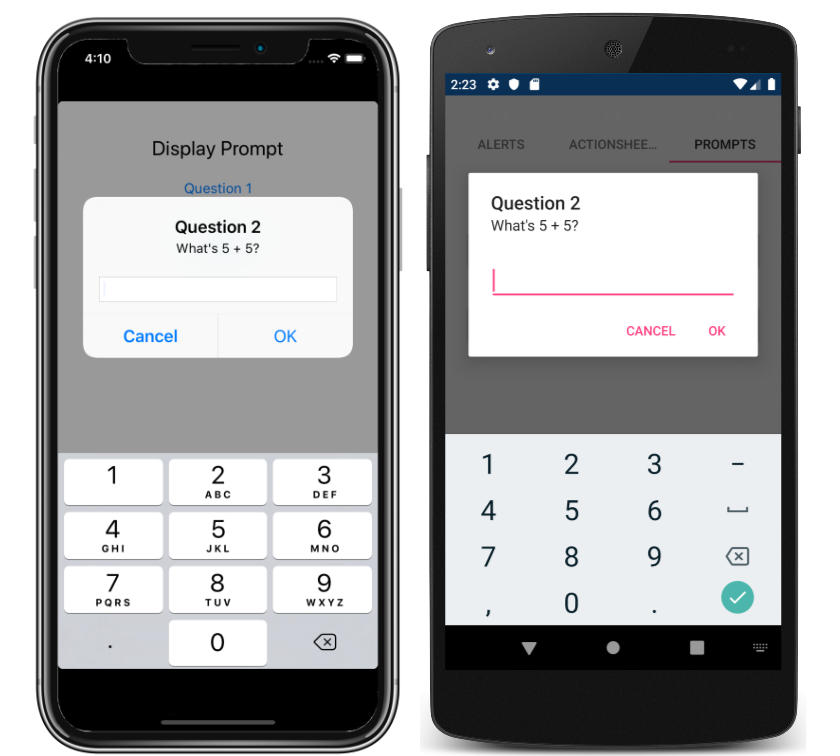
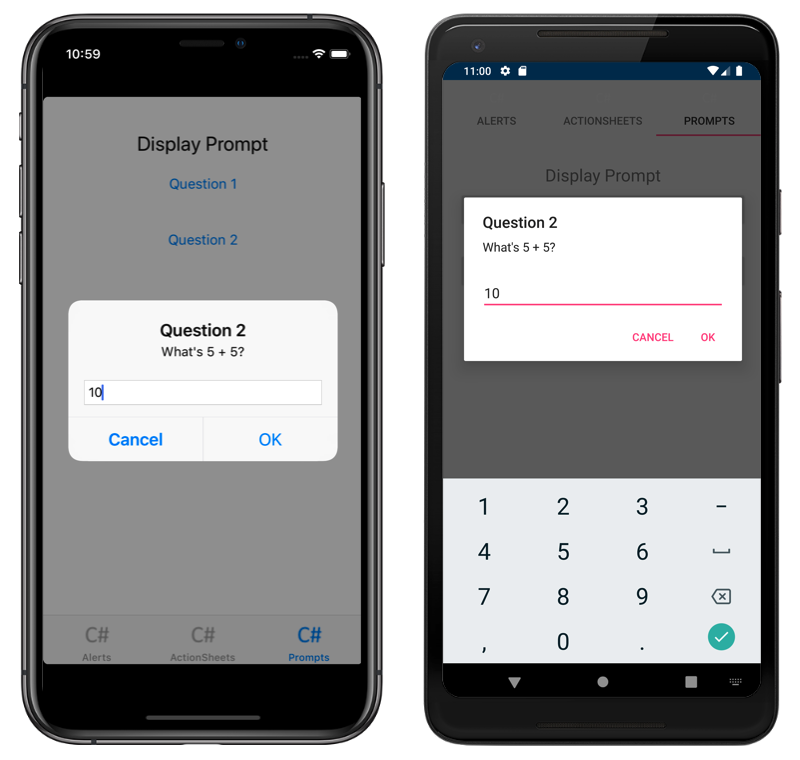
DisplayPromptAsync now accepts a predefined response.

diff --git a/docs/xamarin-forms/user-interface/pop-ups.md b/docs/xamarin-forms/user-interface/pop-ups.md
@@ -6,7 +6,7 @@ ms.assetid: 46AB0D5E-0025-4A8A-9D00-3E66C3D0BA2E
 ms.technology: xamarin-forms
 author: davidbritch
 ms.author: dabritch
-ms.date: 09/25/2019
+ms.date: 01/17/2020
 ---
 
 # Display Pop-ups
@@ -90,14 +90,15 @@ The full argument list for the `DisplayPromptAsync` method is:
 - `placeholder`, of type `string`, is the placeholder text to display in the prompt. This is an optional argument, whose default value is `null`.
 - `maxLength`, of type `int`, is the maximum length of the user response. This is an optional argument, whose default value is -1.
 - `keyboard`, of type `Keyboard`, is the keyboard type to use for the user response. This is an optional argument, whose default value is `Keyboard.Default`.
+- `initialValue`, of type `string`, is a pre-defined response that will be displayed, and which can be edited. This is an optional argument, whose default value is an empty `string`.
 
 The following example shows setting some of the optional arguments:
 
 ```csharp
-string result = await DisplayPromptAsync("Question 2", "What's 5 + 5?", maxLength: 2, keyboard: Keyboard.Numeric);
+string result = await DisplayPromptAsync("Question 2", "What's 5 + 5?", initialValue: "10", maxLength: 2, keyboard: Keyboard.Numeric);
 ```
 
-This code limits the number of characters that can be input to 2, and displays the numeric keyboard for user input:
+This code displays a predefined response of 10, limits the number of characters that can be input to 2, and displays the numeric keyboard for user input:
 
 [![Screenshot of a modal prompt, on iOS and Android](pop-ups-images/keyboard-prompt.png "Modal prompt")](pop-ups-images/keyboard-prompt-large.png#lightbox "Modal prompt")
 
